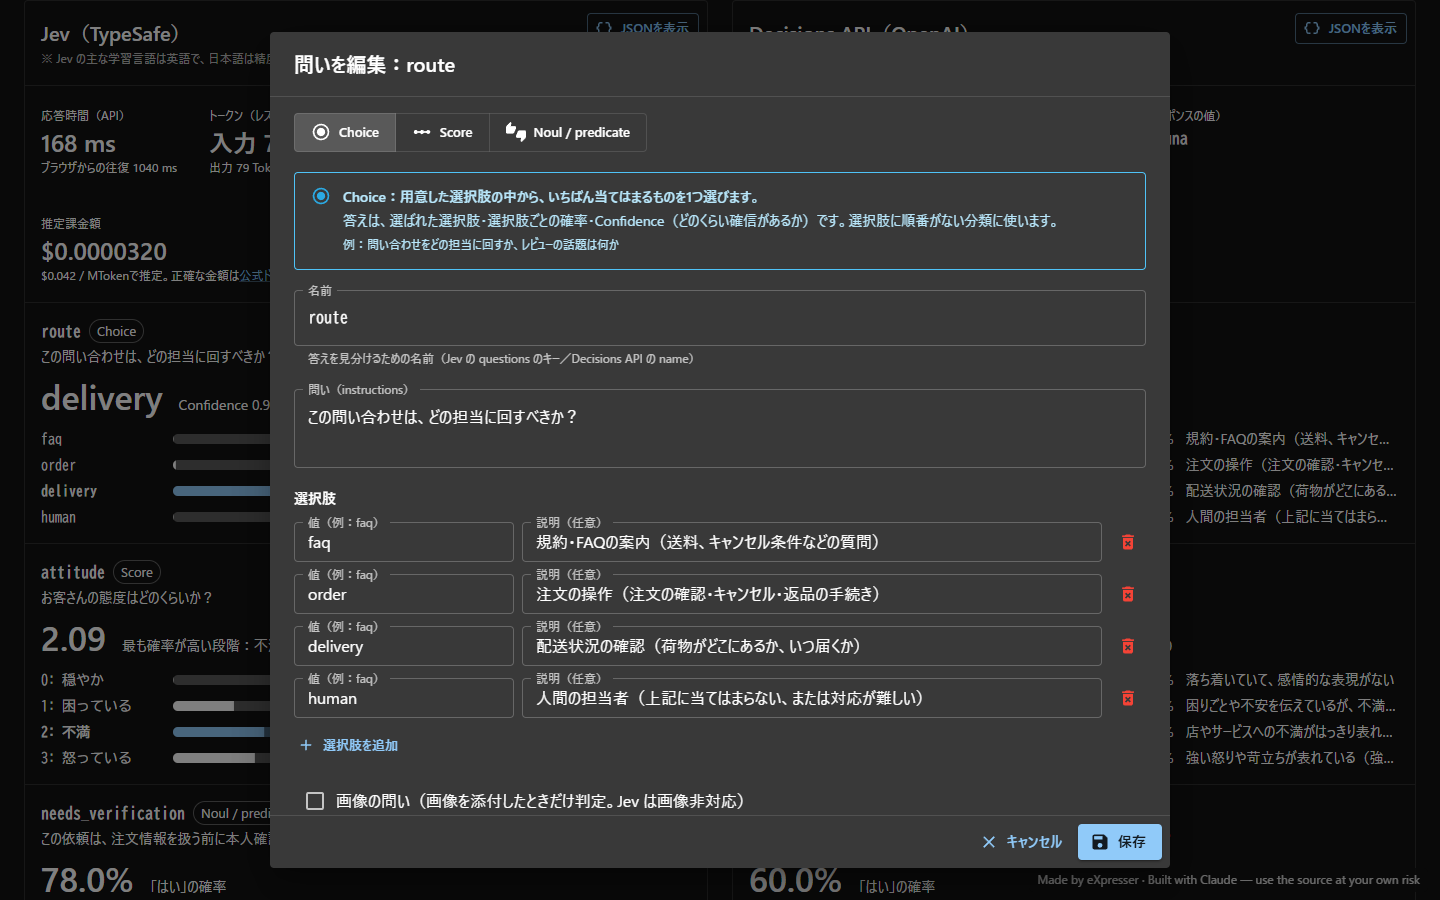
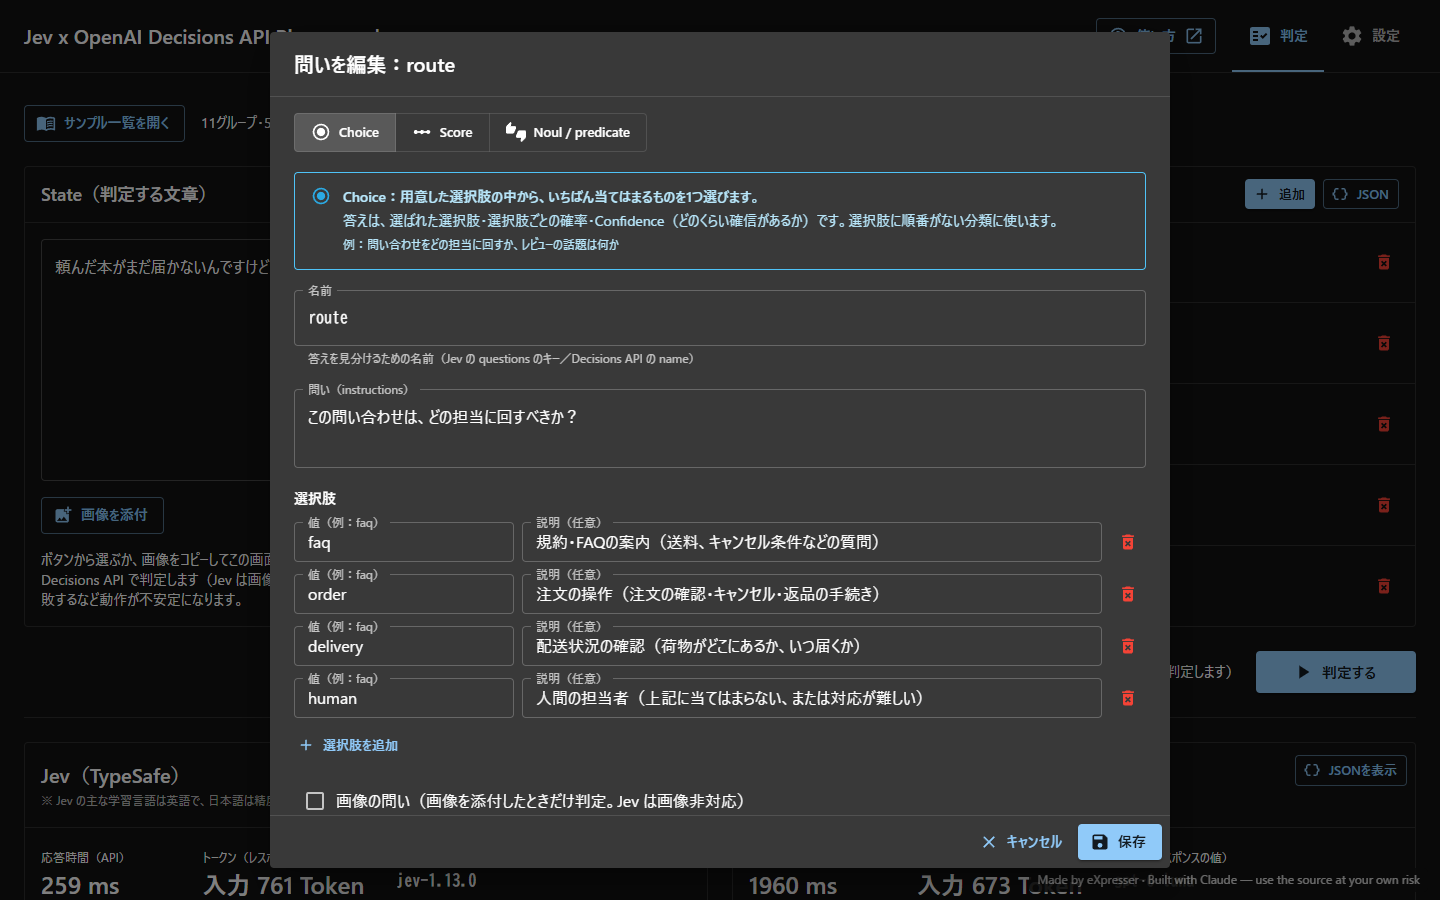
ヘッダーに「使い方」ボタンを置き、使い方のページを新しいタブで開く
リンク先は GitHub 上の docs/usage.md（main ブランチ）。
ヘッダーが写っているスクリーンショットを撮り直し、使い方のページの画面構成の表にも追記した。

diff --git a/components/Demo.tsx b/components/Demo.tsx
@@ -15,6 +15,8 @@ import Toolbar from '@mui/material/Toolbar'
 import Typography from '@mui/material/Typography'
 import FactCheckIcon from '@mui/icons-material/FactCheck'
 import SettingsIcon from '@mui/icons-material/Settings'
+import HelpOutlineOutlinedIcon from '@mui/icons-material/HelpOutlineOutlined'
+import OpenInNewIcon from '@mui/icons-material/OpenInNew'
 import PlayArrowIcon from '@mui/icons-material/PlayArrow'
 import { EMPTY_ENV_STATUS, fetchEnvStatus, runAll, type ApiJob, type EnvStatus } from '@/lib/apiClient'
 import {
@@ -41,6 +43,9 @@ import { ResultPanel } from './ResultPanel'
 import { SampleList } from './SampleList'
 import { SectionTitle } from './SectionTitle'
 import { Settings } from './Settings'
+
+/** プレイグラウンドの使い方（GitHub 上の docs/usage.md） */
+const USAGE_URL = 'https://github.com/eXpresser-UXM/decisions-api-playground/blob/main/docs/usage.md'
 
 type Screen = 'judge' | 'settings'
 
@@ -118,6 +123,17 @@ export function Demo() {
             Jev x OpenAI Decisions API Playground
           </Typography>
           <Box sx={{ flex: 1 }} />
+          {/* 使い方のページ（GitHub 上の docs/usage.md）を新しいタブで開く */}
+          <Button
+            variant="outlined"
+            href={USAGE_URL}
+            target="_blank"
+            rel="noopener noreferrer"
+            startIcon={<HelpOutlineOutlinedIcon />}
+            endIcon={<OpenInNewIcon fontSize="small" />}
+          >
+            使い方
+          </Button>
           <Tabs value={screen} onChange={(_, v: Screen) => setScreen(v)}>
             <Tab value="judge" label="判定" icon={<FactCheckIcon />} iconPosition="start" />
             <Tab value="settings" label="設定" icon={<SettingsIcon />} iconPosition="start" />

diff --git a/docs/usage.md b/docs/usage.md
@@ -15,6 +15,8 @@
 
 | 場所 | 内容 |
 | --- | --- |
+| 右上の「使い方」 | このページを新しいタブで開きます |
+| 右上の「判定」「設定」 | 判定画面と設定画面（APIキー）を切り替えます |
 | サンプル一覧を開く | 用意したサンプルを選べます。選ぶと State と Questions の両方が置き換わります |
 | State（判定する文章） | 判定したい文章を入れます。画像を添付することもできます |
 | Questions（問い） | 文章について聞く問いの一覧です。追加・編集・削除できます |
